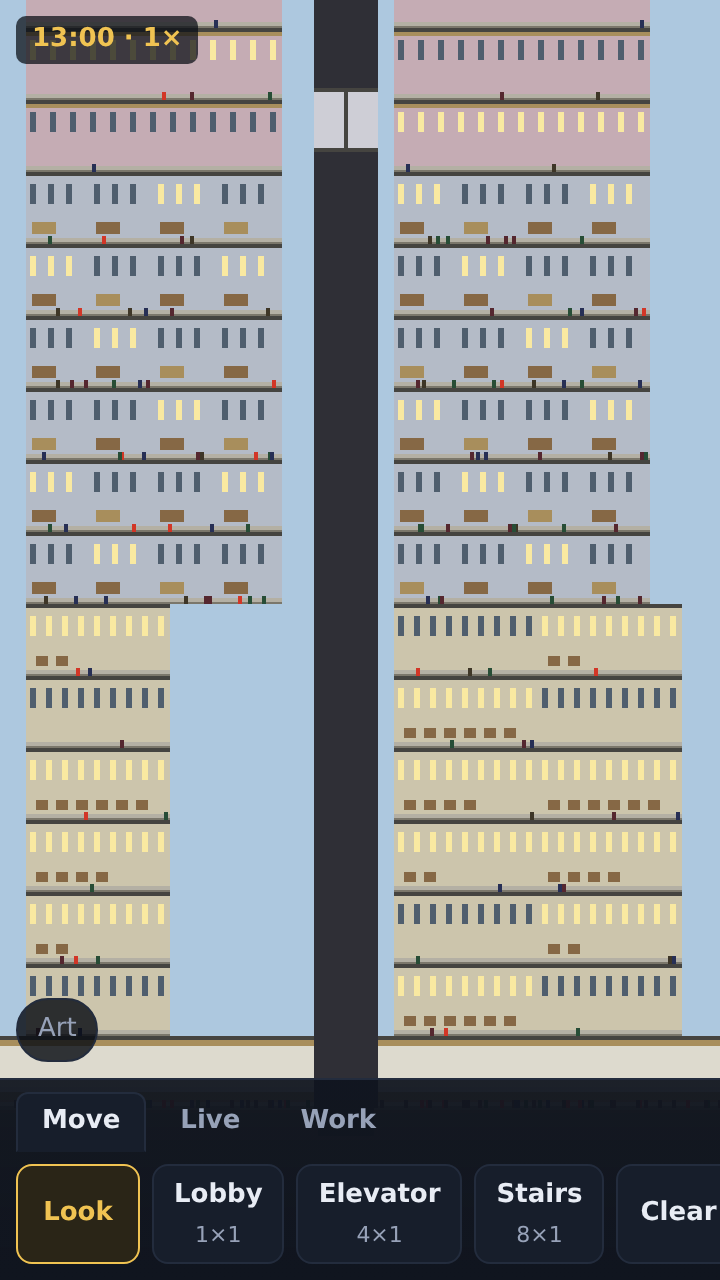
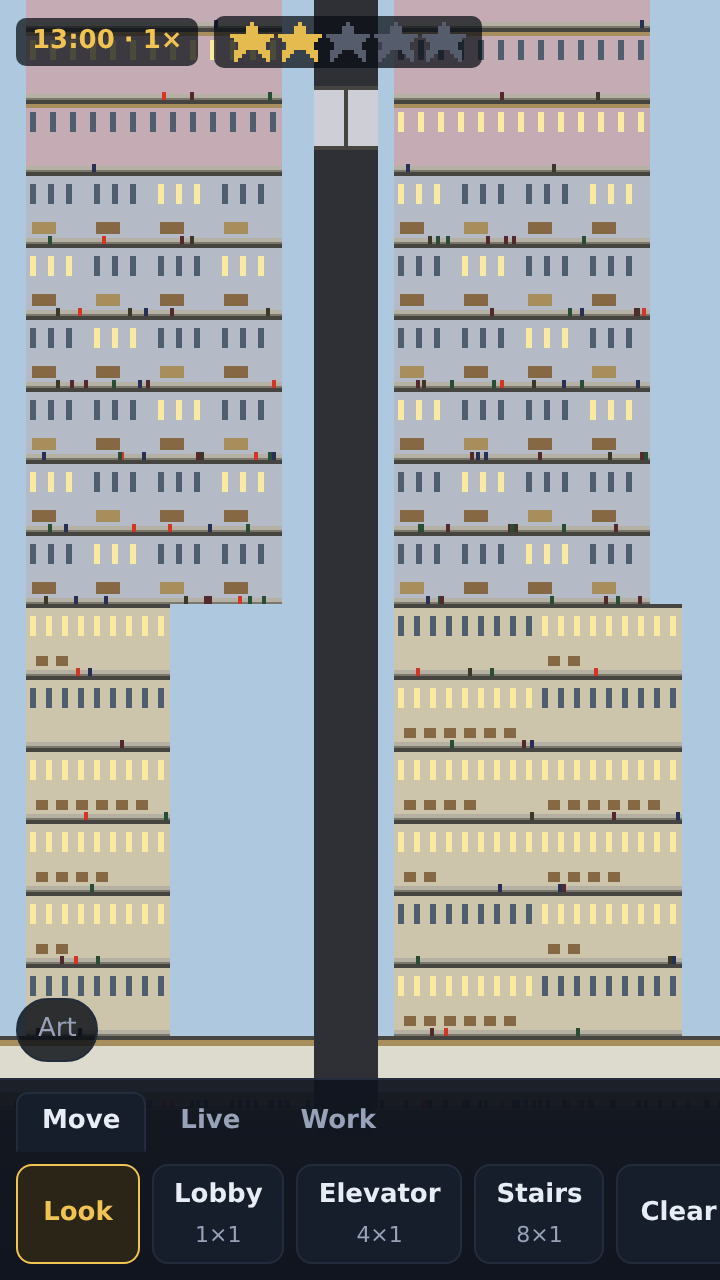
Borrow the rating star, and be honest about what it counts
The original's gold and grey stars now sit in the HUD, drawn through the same
palette as the tower — so at dusk the gold dims with everything else instead of
floating over it in daylight colours. That is the whole reason they are canvases
resolved from palette indices rather than static images.

What the stars count needed deciding rather than assuming. SimTower's rating
comes from population and how well the tower serves it, and this spike has no
simulation at all, so a five-star badge could only have been decoration
pretending to be a score. It counts how high the tower reaches instead, which
is something the tower really has, and the label says so.

The evaluation chips are not wired. Excellent/High/Dirty describe how tenants
are doing, and there are no tenants — there is no honest signal to drive them
from yet, so they stay out rather than showing a made-up verdict.

Icons are built once per atlas and repainted in place once an hour of game
time. Rebuilding five DOM nodes on every shift of the light would have cost
more than drawing the tower does.

Two things looking at it caught: `flex: 0 0 auto` on the canvases, without
which the fifth star was squeezed narrower than the other four; and the star
itself, which I first generated trigonometrically and which came out upside
down. At eleven pixels the maths is both harder to read than a pixel table and
worse at getting five points in the right places, so it is a table now.
[…]

Changed region(s): [[0.275, 0.0, 0.6722, 0.0625], [0.0611, 0.0, 0.1528, 0.0625], [0.2139, 0.0, 0.2444, 0.0625]]

diff --git a/vertical-empire/src/main.ts b/vertical-empire/src/main.ts
@@ -14,10 +14,11 @@ import { buildFallbackAtlas, INK } from './assets/fallback.js';
 import { buildOriginalAtlas } from './assets/original.js';
 import { fingerprint, forgetAtlas, loadAtlas, saveAtlas } from './assets/store.js';
 import { clonePalette, darkestIndex, mixPalettes, rotateCycles, type Palette } from './assets/palette.js';
-import type { Atlas } from './assets/atlas.js';
+import { lookup, type Atlas } from './assets/atlas.js';
 import { Camera } from './render/camera.js';
 import { Framebuffer } from './render/framebuffer.js';
 import { drawScene } from './render/scene.js';
+import { makeIcon, paintIcon } from './render/icon.js';
 import { facility } from './world/facilities.js';
 import {
   FLOOR_HEIGHT,
@@ -133,12 +134,61 @@ function frame(now: number): void {
   }
 
   shell.setClock(`${clockText(hour)} · ${camera.scale}×`);
+  paintRating(hour);
   if (statusUntil !== 0 && now > statusUntil) {
     shell.setStatus('');
     statusUntil = 0;
   }
 
   requestAnimationFrame(frame);
+}
+
+// --- the rating badge -------------------------------------------------------
+
+/** How many stars the badge has room for, lit or not. */
+const RATING_STARS = 5;
+const STAR_SCALE = 2;
+
+let starIcons: HTMLCanvasElement[] = [];
+/** What is currently painted, so the badge is not redrawn every frame. */
+let paintedStars = -1;
+let paintedHour = -1;
+
+/**
+ * Makes the badge's canvases once per atlas.
+ *
+ * They are then repainted in place rather than rebuilt: the palette moves all
+ * day, and replacing five DOM nodes on every shift of the light would cost far
+ * more than the tower does.
+ */
+function buildRating(): void {
+  const lit = lookup(atlas, 'star');
+  starIcons = lit ? Array.from({ length: RATING_STARS }, () => makeIcon()) : [];
+  paintedStars = -1;
+  paintedHour = -1;
+  shell.setRating(starIcons, '');
+}
+
+function paintRating(hour: number): void {
+  if (starIcons.length === 0) return;
+
+  const stars = tower.stars;
+  // The palette only moves between the eleven tables of the day, so repainting
+  // once an hour keeps the stars in step with the light for no real cost.
+  const band = Math.floor(hour);
+  if (stars === paintedStars && band === paintedHour) return;
+  paintedStars = stars;
+  paintedHour = band;
+
+  const lit = lookup(atlas, 'star');
+  const dim = lookup(atlas, 'star-dim') ?? lit;
+  if (!lit || !dim) return;
+
+  for (const [index, canvas] of starIcons.entries()) {
+    const art = index < stars ? lit : dim;
+    paintIcon(canvas, art.image, workingPalette, STAR_SCALE, art.sprite.transparent);
+  }
+  shell.setRating(starIcons, `${stars} of ${RATING_STARS} stars — how high the tower reaches`);
 }
 
 function flash(text: string, tone: 'plain' | 'warn' = 'plain'): void {
@@ -200,6 +250,7 @@ shell.onToolChange((next) => {
 function adopt(next: Atlas): void {
   atlas = next;
   shell.setArtSource(next.source);
+  buildRating();
 }
 
 shell.onArtFile(async (file) => {
@@ -269,6 +320,9 @@ camera.centreOn(SEGMENT_WIDTH * 24, levelTop(GROUND_LEVEL + 6) + FLOOR_HEIGHT / 
 gestures.onChange(() => {
   /* the loop redraws every frame; nothing to do but keep the camera honest */
 });
+
+// The fallback atlas has never been through `adopt`, so its badge is built here.
+buildRating();
 
 framebuffer.clear(INK.sky3);
 requestAnimationFrame(frame);

diff --git a/vertical-empire/src/render/icon.ts b/vertical-empire/src/render/icon.ts
@@ -1,0 +1,63 @@
+/**
+ * Turns a palette-indexed sprite into something the DOM can show.
+ *
+ * The tower is drawn into one indexed framebuffer and resolved through the
+ * palette once a frame, which is what makes the day/night cycle free. The HUD
+ * is ordinary HTML and cannot share that, so the few pieces of the original's
+ * chrome we borrow get a little canvas each — repainted when the palette moves,
+ * so a gold star at dusk is the same gold as the tower behind it.
+ *
+ * Split into make-once and repaint-often on purpose: building DOM elements
+ * every frame to recolour a 16px star would cost more than the tower does.
+ */
+
+import type { IndexedImage } from '../assets/dib.js';
+import type { Palette } from '../assets/palette.js';
+
+/** An empty canvas for an icon. Sizing happens when something is painted into it. */
+export function makeIcon(): HTMLCanvasElement {
+  const canvas = document.createElement('canvas');
+  canvas.className = 'icon';
+  return canvas;
+}
+
+/**
+ * Paints a sprite into a canvas from `makeIcon`, resolving indices as it goes.
+ *
+ * Sized in art pixels and laid out in CSS pixels, so the art stays square
+ * whatever the screen density — the same bargain the stage canvas makes. The
+ * size is set here rather than at creation because a lit star and an unlit one
+ * need not be the same shape, and the canvas has to follow whichever it holds.
+ */
+export function paintIcon(
+  canvas: HTMLCanvasElement,
+  image: IndexedImage,
+  palette: Palette,
+  scale: number,
+  transparent?: number,
+): void {
+  const context = canvas.getContext('2d');
+  if (!context) return;
+
+  if (canvas.width !== image.width || canvas.height !== image.height) {
+    canvas.width = image.width;
+    canvas.height = image.height;
+  }
+  canvas.style.width = `${image.width * scale}px`;
+  canvas.style.height = `${image.height * scale}px`;
+
+  const target = context.createImageData(image.width, image.height);
+  for (let i = 0; i < image.width * image.height; i += 1) {
+    const index = image.pixels[i] ?? 0;
+    const at = i * 4;
+    if (index === transparent) {
+      target.data[at + 3] = 0;
+      continue;
+    }
+    target.data[at] = palette[index * 4] ?? 0;
+    target.data[at + 1] = palette[index * 4 + 1] ?? 0;
+    target.data[at + 2] = palette[index * 4 + 2] ?? 0;
+    target.data[at + 3] = 255;
+  }
+  context.putImageData(target, 0, 0);
+}

diff --git a/vertical-empire/src/assets/fallback.ts b/vertical-empire/src/assets/fallback.ts
@@ -55,6 +55,8 @@ export const INK = {
   townWall: 26,
   townRoof: 27,
   townWindow: 28,
+  starLit: 29,
+  starDim: 30,
   indicatorA: 197,
   indicatorB: 198,
 } as const;
@@ -88,6 +90,8 @@ const DAY: Record<number, [number, number, number]> = {
   [INK.personAngry]: [220, 56, 40],
   [INK.townWall]: [104, 112, 128],
   [INK.townRoof]: [72, 78, 92],
+  [INK.starLit]: [240, 195, 82],
+  [INK.starDim]: [88, 96, 112],
   [INK.townWindow]: [196, 206, 176],
   [INK.indicatorA]: [248, 200, 64],
   [INK.indicatorB]: [80, 60, 24],
@@ -287,6 +291,40 @@ function person(tint: number): IndexedImage {
   return image;
 }
 
+/**
+ * A five-pointed star for the rating badge, as a picture of itself.
+ *
+ * Everything else here is generated, because a rectangle is easier to re-tune
+ * as code than as pixels. A star is the exception: at eleven pixels across the
+ * maths that puts five points in the right places is fiddlier to read *and*
+ * gets them wrong, while the shape below can be checked by looking at it.
+ */
+const STAR = [
+  '.....#.....',
+  '....###....',
+  '....###....',
+  '###########',
+  '.#########.',
+  '..#######..',
+  '..#######..',
+  '.###...###.',
+  '.##.....##.',
+  '.#.......#.',
+];
+
+function star(ink: number): IndexedImage {
+  const width = STAR[0]?.length ?? 0;
+  const height = STAR.length;
+  const pixels = new Uint8Array(width * height).fill(INK.transparent);
+  for (let y = 0; y < height; y += 1) {
+    const row = STAR[y] ?? '';
+    for (let x = 0; x < width; x += 1) {
+      if (row[x] === '#') pixels[y * width + x] = ink;
+    }
+  }
+  return { width, height, pixels };
+}
+
 function sprite(key: string, frames: IndexedImage[], transparent?: number): ExtractedSprite {
   const value: ExtractedSprite = { key, frames };
   if (transparent !== undefined) value.transparent = transparent;
@@ -301,6 +339,8 @@ export function buildFallbackAtlas(): Atlas {
     'sky',
     sprite('sky', [INK.sky0, INK.sky1, INK.sky2, INK.sky3, INK.sky4, INK.sky5].map(sky)),
   );
+  sprites.set('star', sprite('star', [star(INK.starLit)], INK.transparent));
+  sprites.set('star-dim', sprite('star-dim', [star(INK.starDim)], INK.transparent));
   sprites.set('ground', sprite('ground', [ground()]));
   sprites.set('lobby', sprite('lobby', [lobby()]));
   sprites.set('office', sprite('office', [office(0), office(1), office(2), office(3)]));

diff --git a/vertical-empire/src/ui/shell.ts b/vertical-empire/src/ui/shell.ts
@@ -21,6 +21,13 @@ export interface Shell {
   setClock: (text: string) => void;
   setStatus: (text: string, tone?: 'plain' | 'warn') => void;
   setArtSource: (source: 'original' | 'fallback') => void;
+  /**
+   * The rating badge, as ready-made elements.
+   *
+   * The shell places them and says what they mean; drawing them is the
+   * renderer's job, because they are palette-indexed art like everything else.
+   */
+  setRating: (icons: HTMLElement[], label: string) => void;
 }
 
 export function buildShell(root: HTMLElement): Shell {
@@ -35,9 +42,11 @@ export function buildShell(root: HTMLElement): Shell {
   hud.className = 'hud';
   const clock = document.createElement('span');
   clock.className = 'hud-clock';
+  const rating = document.createElement('span');
+  rating.className = 'hud-rating';
   const status = document.createElement('span');
   status.className = 'hud-status';
-  hud.append(clock, status);
+  hud.append(clock, rating, status);
   root.append(hud);
 
   // Two rows: what you are doing, then what you can build while doing it.
@@ -220,6 +229,12 @@ export function buildShell(root: HTMLElement): Shell {
       status.dataset['tone'] = tone;
     },
     setArtSource,
+    setRating: (icons, label) => {
+      rating.replaceChildren(...icons);
+      rating.title = label;
+      rating.setAttribute('aria-label', label);
+      rating.hidden = icons.length === 0;
+    },
   };
 }
 

diff --git a/vertical-empire/src/world/tower.ts b/vertical-empire/src/world/tower.ts
@@ -4,7 +4,7 @@
  */
 
 import { facility, type FacilityId } from './facilities.js';
-import { LOT_SEGMENTS, isInsideLot, isValidLevel } from './grid.js';
+import { LOT_SEGMENTS, isInsideLot, isValidLevel, levelToFloor } from './grid.js';
 
 export interface Placement {
   id: FacilityId;
@@ -68,6 +68,24 @@ export class Tower {
     // Indices after the hole all shifted, so the map is rebuilt rather than patched.
     this.reindex();
     return removed;
+  }
+
+  /**
+   * A five-star rating, standing in for one the spike does not simulate.
+   *
+   * SimTower's stars come from population and how well the tower serves it.
+   * Nothing here simulates population — there is no simulation at all — so
+   * rather than invent a score, this counts something the tower really does
+   * have: how high it reaches. The badge is honest about being a measure of
+   * the building rather than of how it is doing.
+   */
+  get stars(): number {
+    const floors = levelToFloor(this.topLevel);
+    if (floors < 1) return 0;
+    // Roughly the original's own pacing, where each star is a step change in
+    // what the tower has to be rather than a steady climb.
+    const steps = [1, 10, 25, 50, 75];
+    return steps.filter((needed) => floors >= needed).length;
   }
 
   /** Highest level with anything on it, or -1 for an empty lot. */

diff --git a/vertical-empire/src/assets/slice.ts b/vertical-empire/src/assets/slice.ts
@@ -168,6 +168,12 @@ export const CATALOGUE: readonly SpriteSpec[] = [
   { key: 'stairs', type: TYPE_BITMAP, ids: [0x8968, 0x8969], mode: 'dib', states: 7, transparent: 'corner' },
   { key: 'escalator', type: TYPE_BITMAP, ids: [0x8aa8, 0x8ae8], mode: 'dib', states: 8, transparent: 'corner' },
 
+  // Two pieces of the original's chrome, borrowed for the HUD: the rating star
+  // lit and unlit. Icons rather than sheets, so they are taken whole. Both sit
+  // on a flat background, which is what the corner convention is for.
+  { key: 'star', type: TYPE_BITMAP, ids: [0x8142], mode: 'dib', transparent: 'corner' },
+  { key: 'star-dim', type: TYPE_BITMAP, ids: [0x8143], mode: 'dib', transparent: 'corner' },
+
   // Nine figures across a 96x24 sheet, and — this is the part a grid cannot
   // express — they are six different widths, from five pixels to eleven, with
   // the last few being clumps of two or three people rather than one. Cutting

diff --git a/vertical-empire/tests/world.test.ts b/vertical-empire/tests/world.test.ts
@@ -118,3 +118,28 @@ describe('the demo tower', () => {
     expect(tower.at(0, GROUND_LEVEL)?.id).toBe('lobby');
   });
 });
+
+describe('the rating badge', () => {
+  it('counts stars from how high the tower reaches', () => {
+    const tower = new Tower();
+    expect(tower.stars).toBe(0);
+
+    tower.place('office', 0, GROUND_LEVEL);
+    expect(tower.stars).toBe(1);
+
+    // Floor 10 is the second step. Levels are 0-based and start below ground,
+    // so the tenth floor is GROUND_LEVEL + 9.
+    tower.place('office', 0, GROUND_LEVEL + 9);
+    expect(tower.stars).toBe(2);
+
+    tower.place('office', 0, GROUND_LEVEL + 74);
+    expect(tower.stars).toBe(5);
+  });
+
+  it('does not count basements as height', () => {
+    const tower = new Tower();
+    tower.place('office', 0, GROUND_LEVEL - 1);
+    // Something is built, but the tower does not reach floor 1.
+    expect(tower.stars).toBe(0);
+  });
+});

diff --git a/vertical-empire/src/styles/base.css b/vertical-empire/src/styles/base.css
@@ -65,6 +65,7 @@ body {
 }
 
 .hud-clock,
+.hud-rating,
 .hud-status {
   padding: 3px 8px;
   border-radius: 5px;
@@ -83,6 +84,26 @@ body {
 
 .hud-status[data-tone='warn'] {
   color: var(--warn);
+}
+
+.hud-rating {
+  display: flex;
+  align-items: center;
+  gap: 2px;
+}
+
+.hud-rating[hidden] {
+  display: none;
+}
+
+/* Borrowed chrome is art, so it obeys the one rule the tower does. */
+.icon {
+  display: block;
+  /* Never shrink: a squeezed canvas is a squeezed picture, and the last star
+     in the row was the one paying for it. */
+  flex: 0 0 auto;
+  image-rendering: pixelated;
+  image-rendering: crisp-edges;
 }
 
 /* --- build bar -------------------------------------------------------- */
